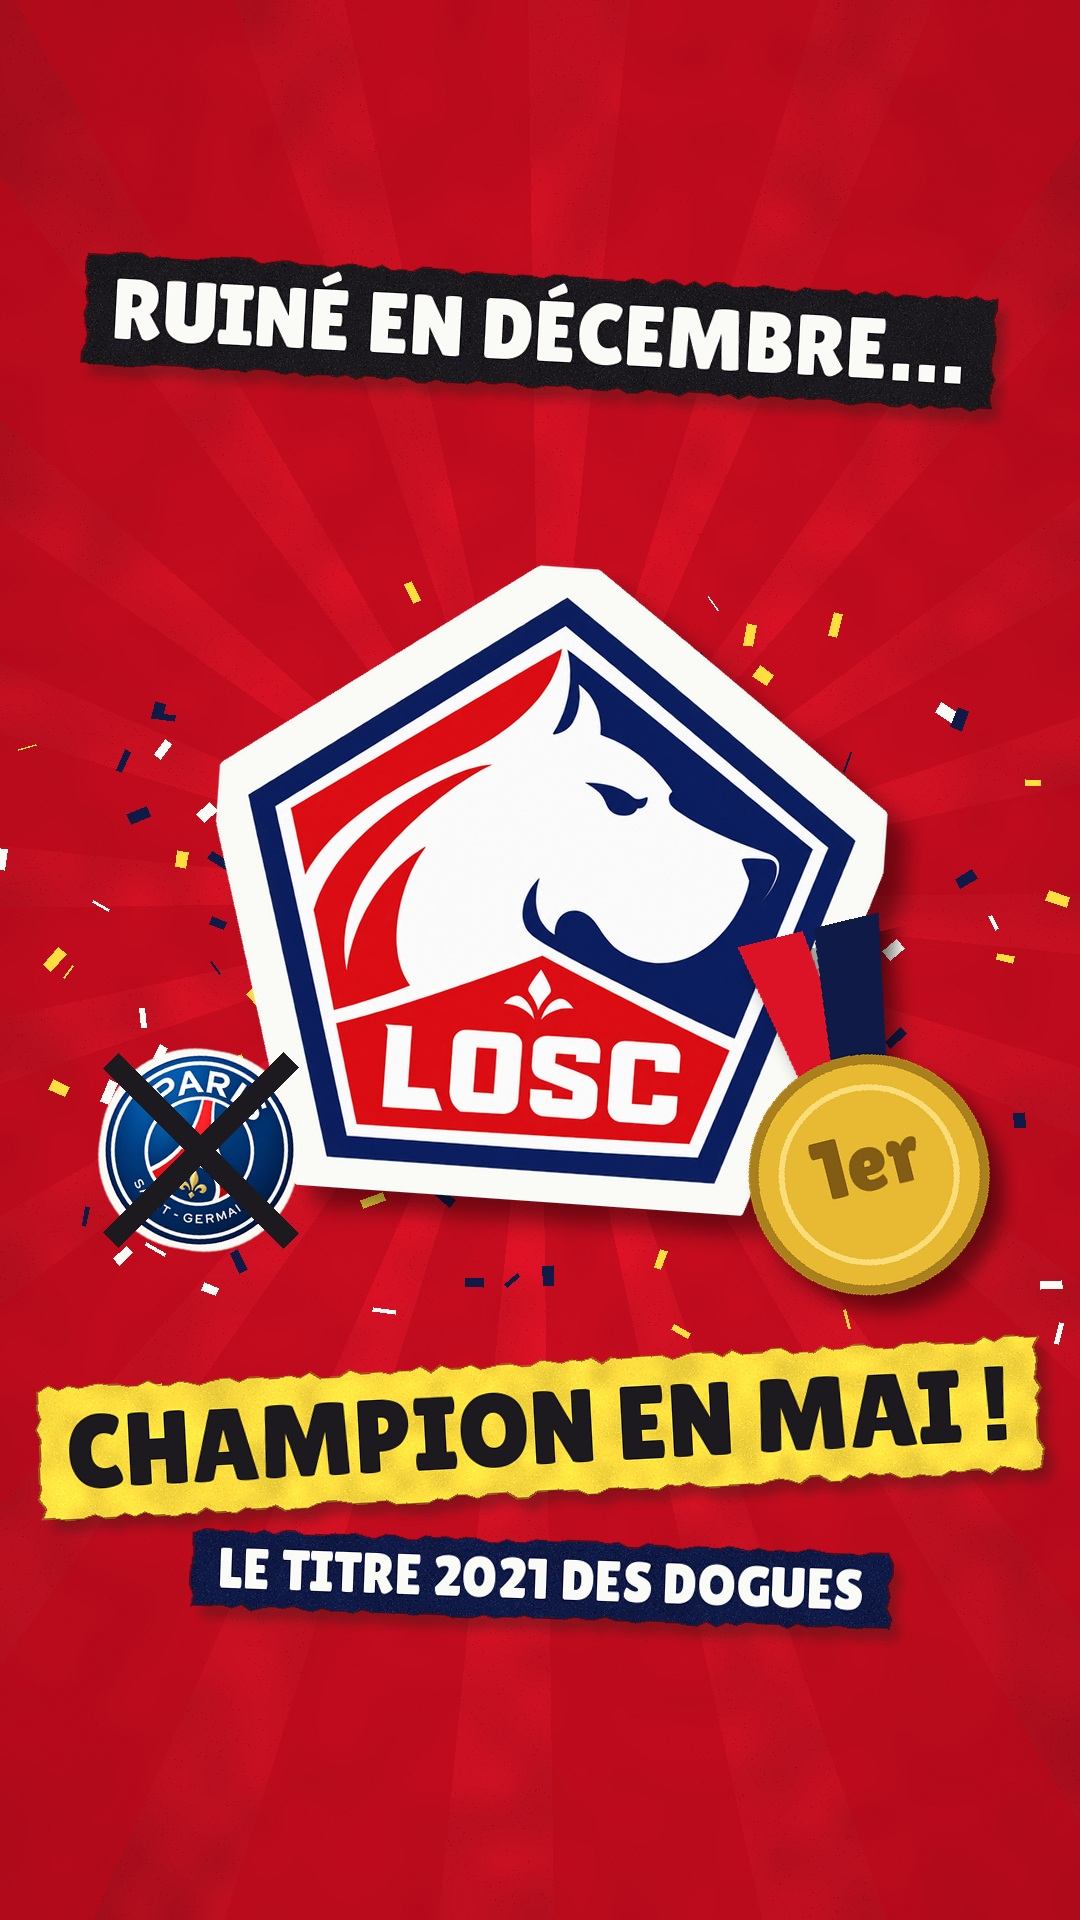
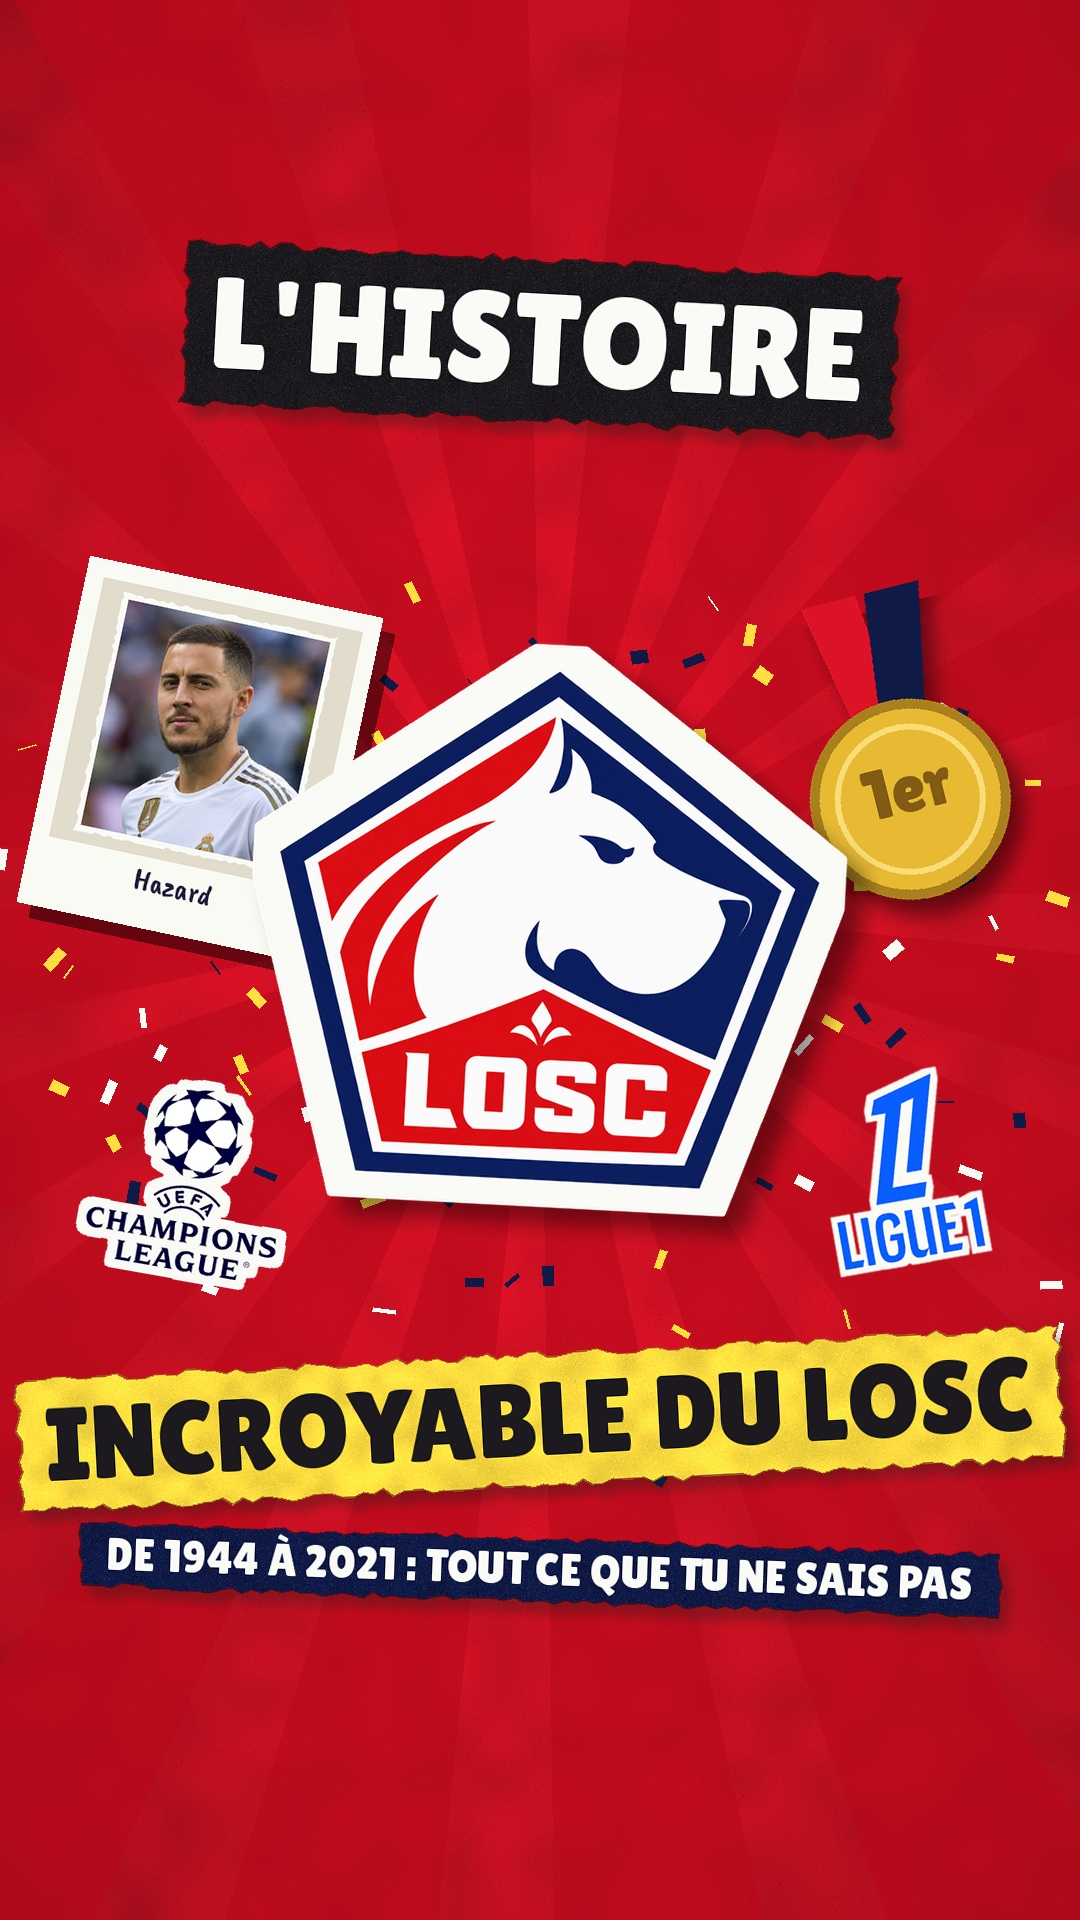
LOSC fresque : couverture générique « L'histoire incroyable du LOSC »
Claude-Session: https://claude.ai/code/session_01DXpnpJ9jwFkxmTPwukopFs

diff --git a/episodes/lille_fresque/cover2.py b/episodes/lille_fresque/cover2.py
@@ -10,15 +10,17 @@ def cover2(path):
     cv = background(0, TITLE); stage_fill(cv, 0, ROUGE, "lfcv2bg")
     rays(cv, (CX, 900), .4, 1.0, 20, 1900, (184, 8, 26), .1, .5)
     confetti(cv, 0, "lfcv2cf", 2.2, 120, 4, [JAUNE, BLANC, NAVY])
-    big("RUINÉ EN DÉCEMBRE…", "lfcv2a", 86, BLANC, NOIR).draw(cv, 0, CX, 330, 1, -3)
-    lo = _img(os.path.join(ROOT, "assets", "logos", "lille_sticker.png"), 700)
-    blit_sxy(cv, lo[1], CX + 20, 920, 1, 1, -4); blit_sxy(cv, lo[0], CX, 900, 1, 1, -4)
-    m = medal(120); blit_sxy(cv, m[1], 870, 1140, 1, 1, 14); blit_sxy(cv, m[0], 856, 1124, 1, 1, 14)
-    ps = _img(os.path.join(ROOT, "assets", "logos", "psg_sticker.png"), 210)
-    blit_sxy(cv, ps[0], 200, 1150, 1, 1, -10)
-    d = ImageDraw.Draw(cv); d.line([(110, 1060), (290, 1240)], fill=NOIR, width=22); d.line([(290, 1060), (110, 1240)], fill=NOIR, width=22)
-    big("CHAMPION EN MAI !", "lfcv2b", 104, NOIR, JAUNE, rough=4, maxw=1060).draw(cv, 0, CX, 1430, 1, 3)
-    big("LE TITRE 2021 DES DOGUES", "lfcv2c", 56, BLANC, NAVY).draw(cv, 0, CX, 1580, 1, -2)
+    big("L'HISTOIRE", "lfcv3a", 130, BLANC, NOIR, rough=4).draw(cv, 0, CX, 340, 1, -3)
+    from lille_scrapbook import polaroid
+    for sp, x, y, r in ((polaroid(os.path.join(ROOT, "assets", "lille", "hazard_card.png"), "Hazard", 300), 200, 760, -12),
+                        (medal(100), 900, 760, 14)):
+        blit_sxy(cv, sp[1], x + 12, y + 16, 1, 1, r); blit_sxy(cv, sp[0], x, y, 1, 1, r)
+    lo = _img(os.path.join(ROOT, "assets", "logos", "lille_sticker.png"), 620)
+    blit_sxy(cv, lo[1], CX + 18, 958, 1, 1, -3); blit_sxy(cv, lo[0], CX, 940, 1, 1, -3)
+    for nm, x, y, h, r in (("ucl", 190, 1180, 210, -10), ("ligue1", 900, 1170, 200, 10)):
+        st = _img(os.path.join(ROOT, "assets", "logos", f"{nm}_sticker.png"), h); blit_sxy(cv, st[0], x, y, 1, 1, r)
+    big("INCROYABLE DU LOSC", "lfcv3b", 104, NOIR, JAUNE, rough=4, maxw=1060).draw(cv, 0, CX, 1420, 1, 3)
+    big("DE 1944 À 2021 : TOUT CE QUE TU NE SAIS PAS", "lfcv3c", 44, BLANC, NAVY, maxw=1000).draw(cv, 0, CX, 1570, 1, -2)
     finish(cv, TITLE); cv.convert("RGB").save(path, quality=94); return path
 
 if __name__ == "__main__":
